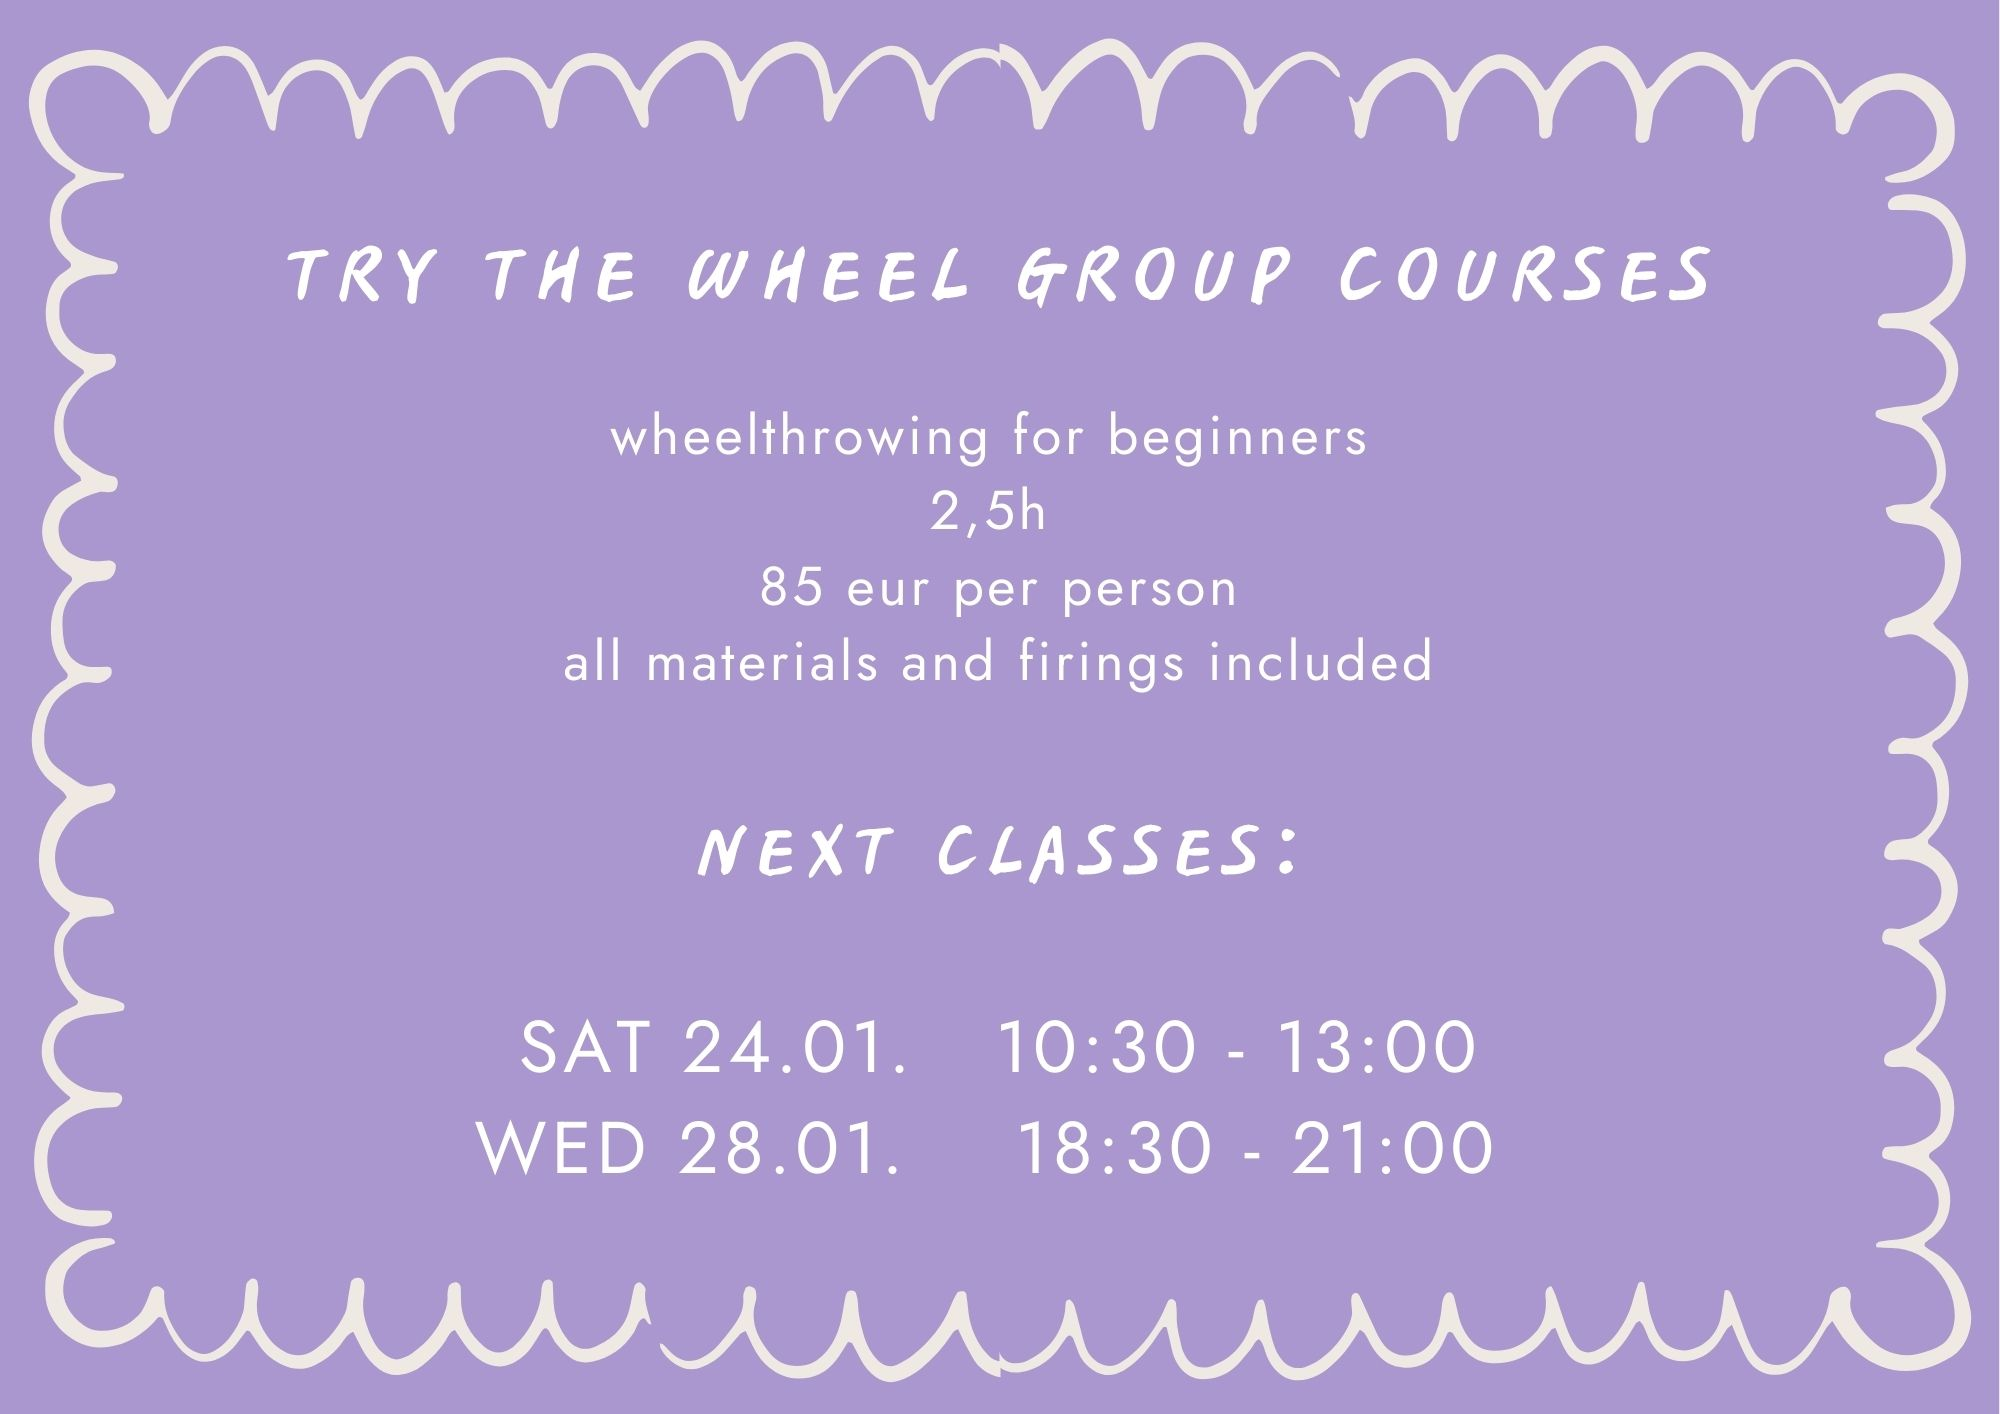
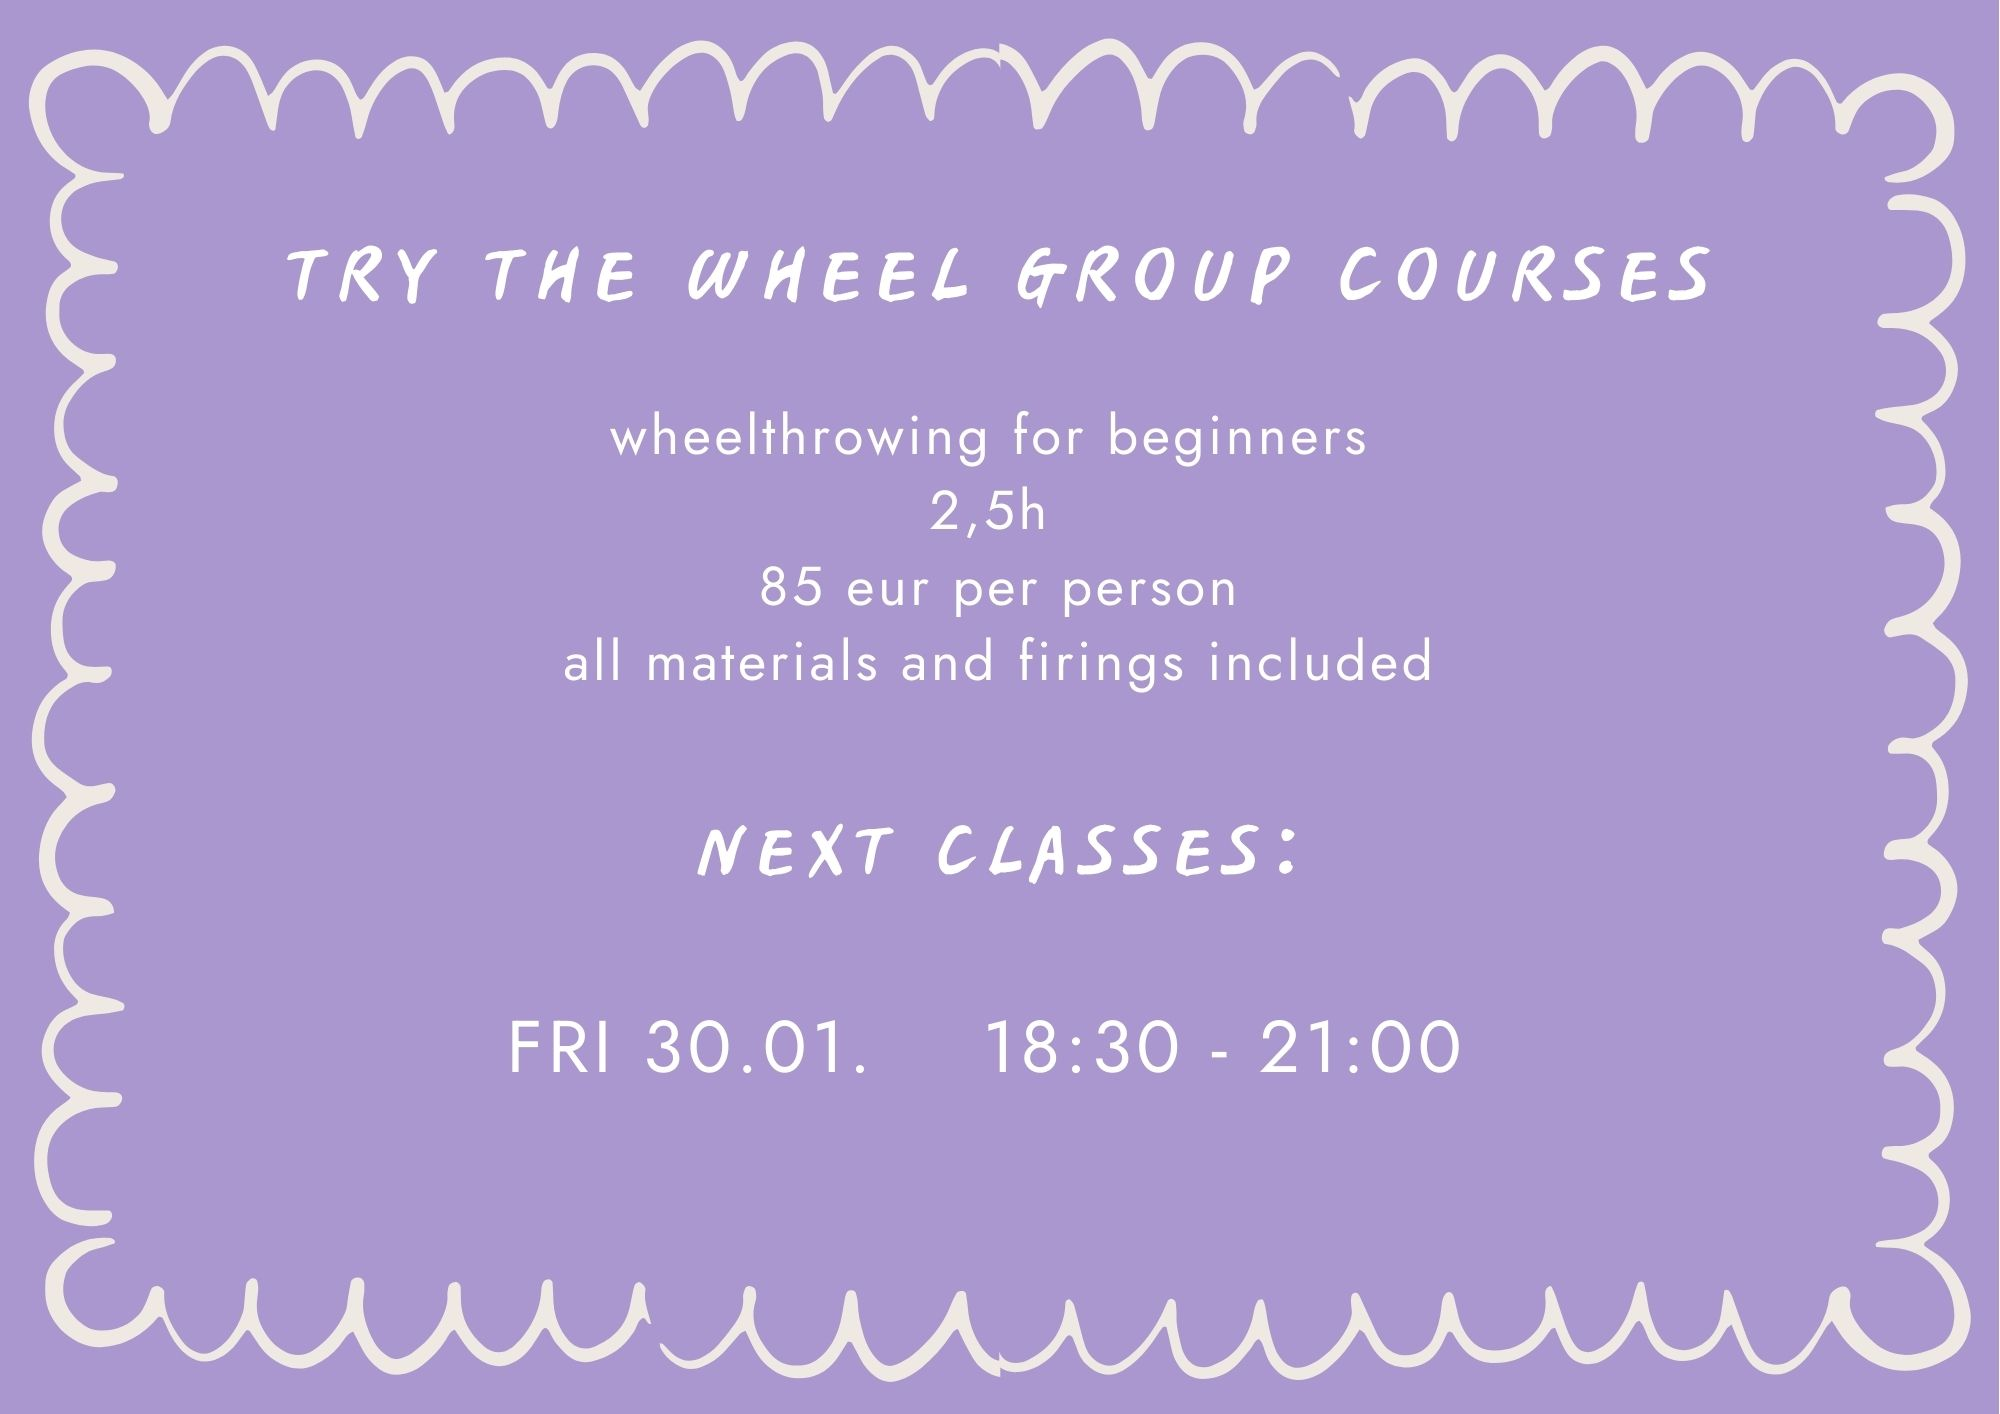
text photo

Changed region(s): [[0.496, 0.7157, 0.744, 0.8402], [0.248, 0.7157, 0.434, 0.8402]]

diff --git a/src/pottery-courses-and-workshops/wheelthrowing/index.html b/src/pottery-courses-and-workshops/wheelthrowing/index.html
@@ -23,8 +23,7 @@ eleventyNavigation:
 <p>
  <b>Group courses:</b>
   <br><br>
-Saturday 24.01.2026.  10:30 - 13:00   <b>1 spot left!</b><br>
-Wednesday 28.01.2026. 18:30 - 21:00 <br>
+Wednesday 30.01.2026. 18:30 - 21:00 <br>
 <br>
 85 eur per person. <br>
 (Max. 6 people per group class).
